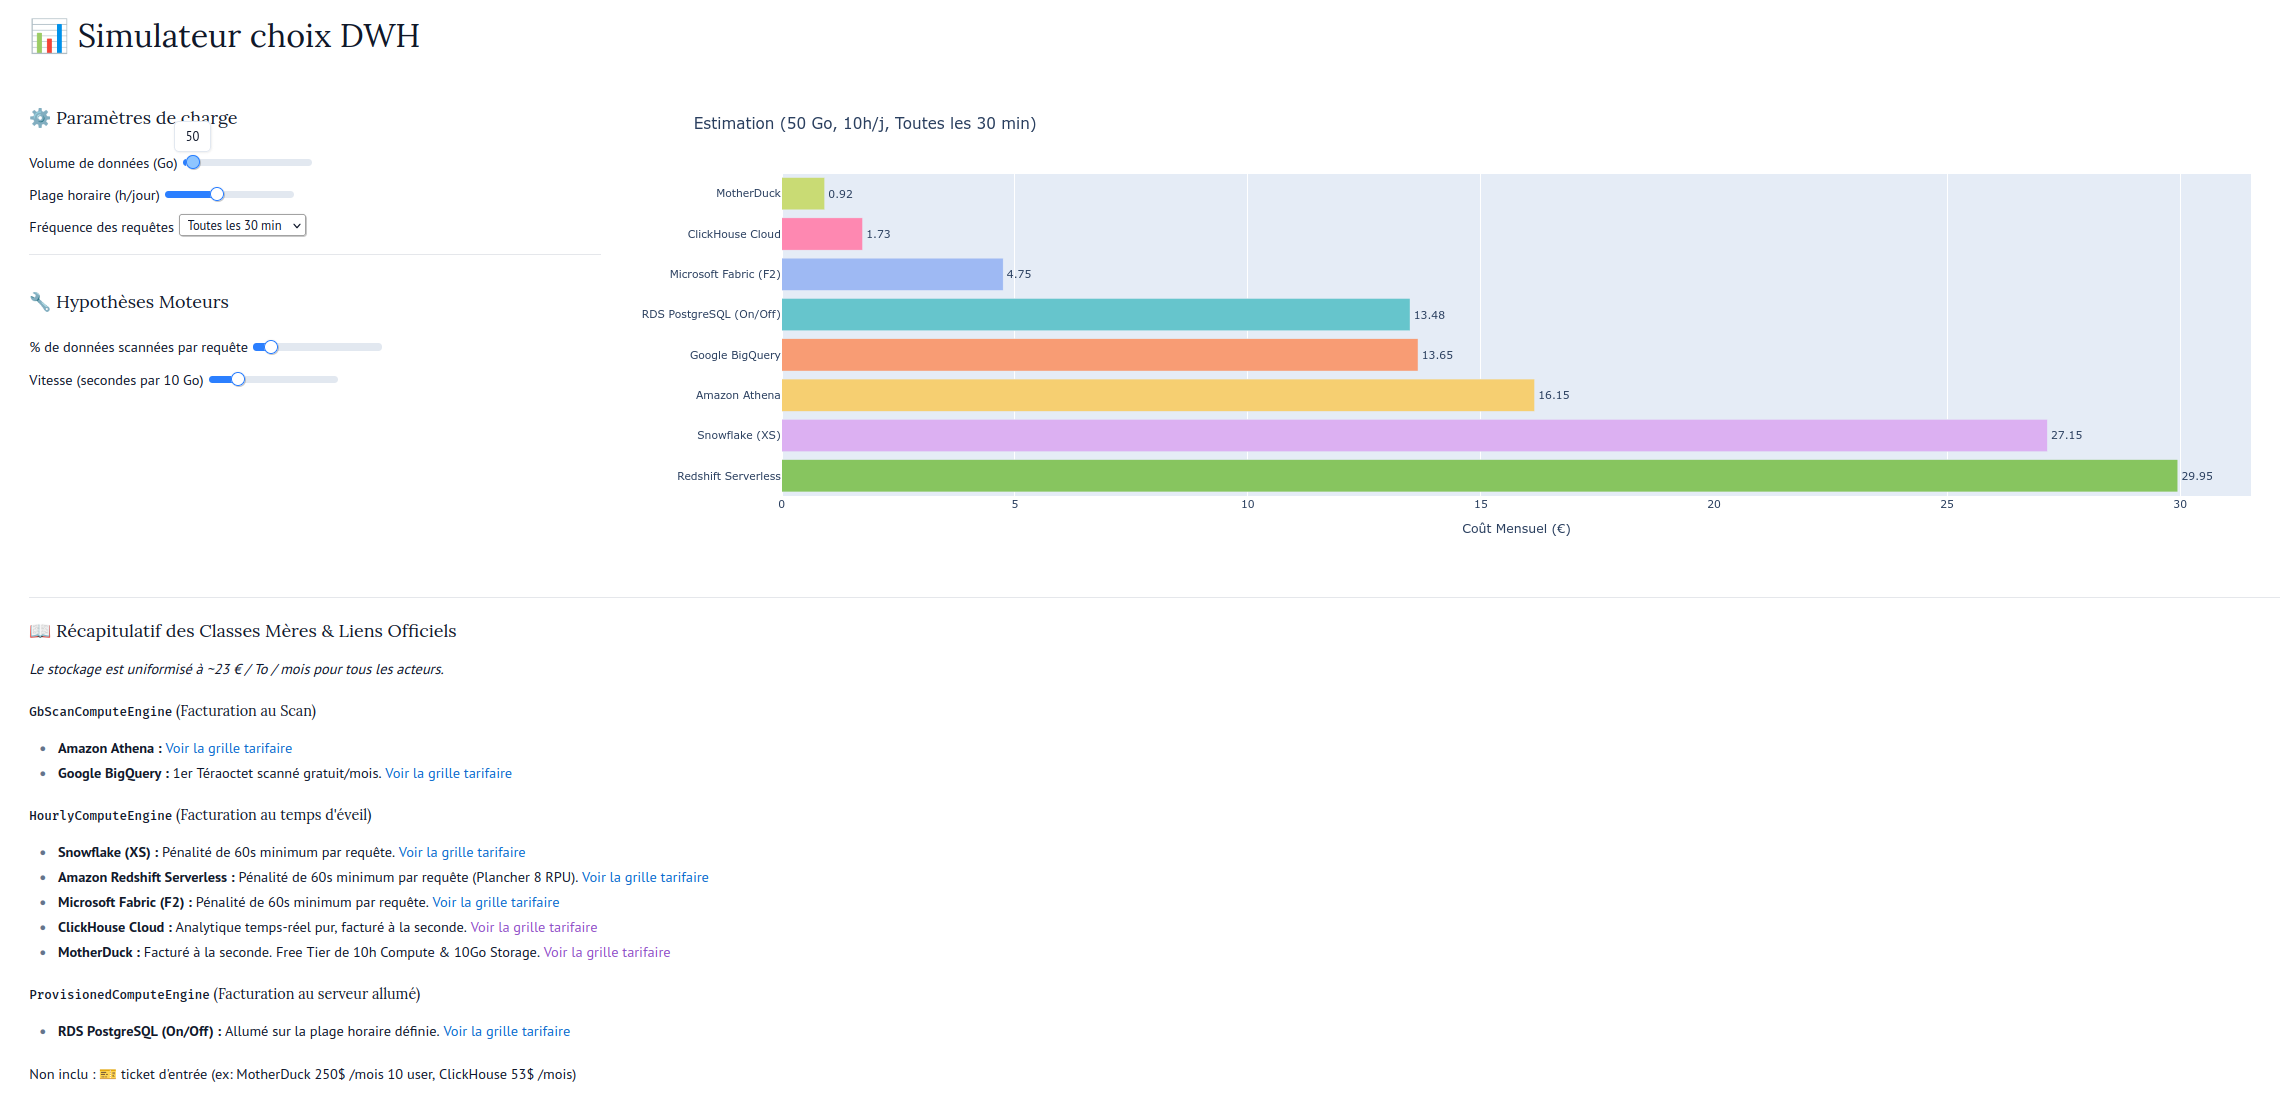
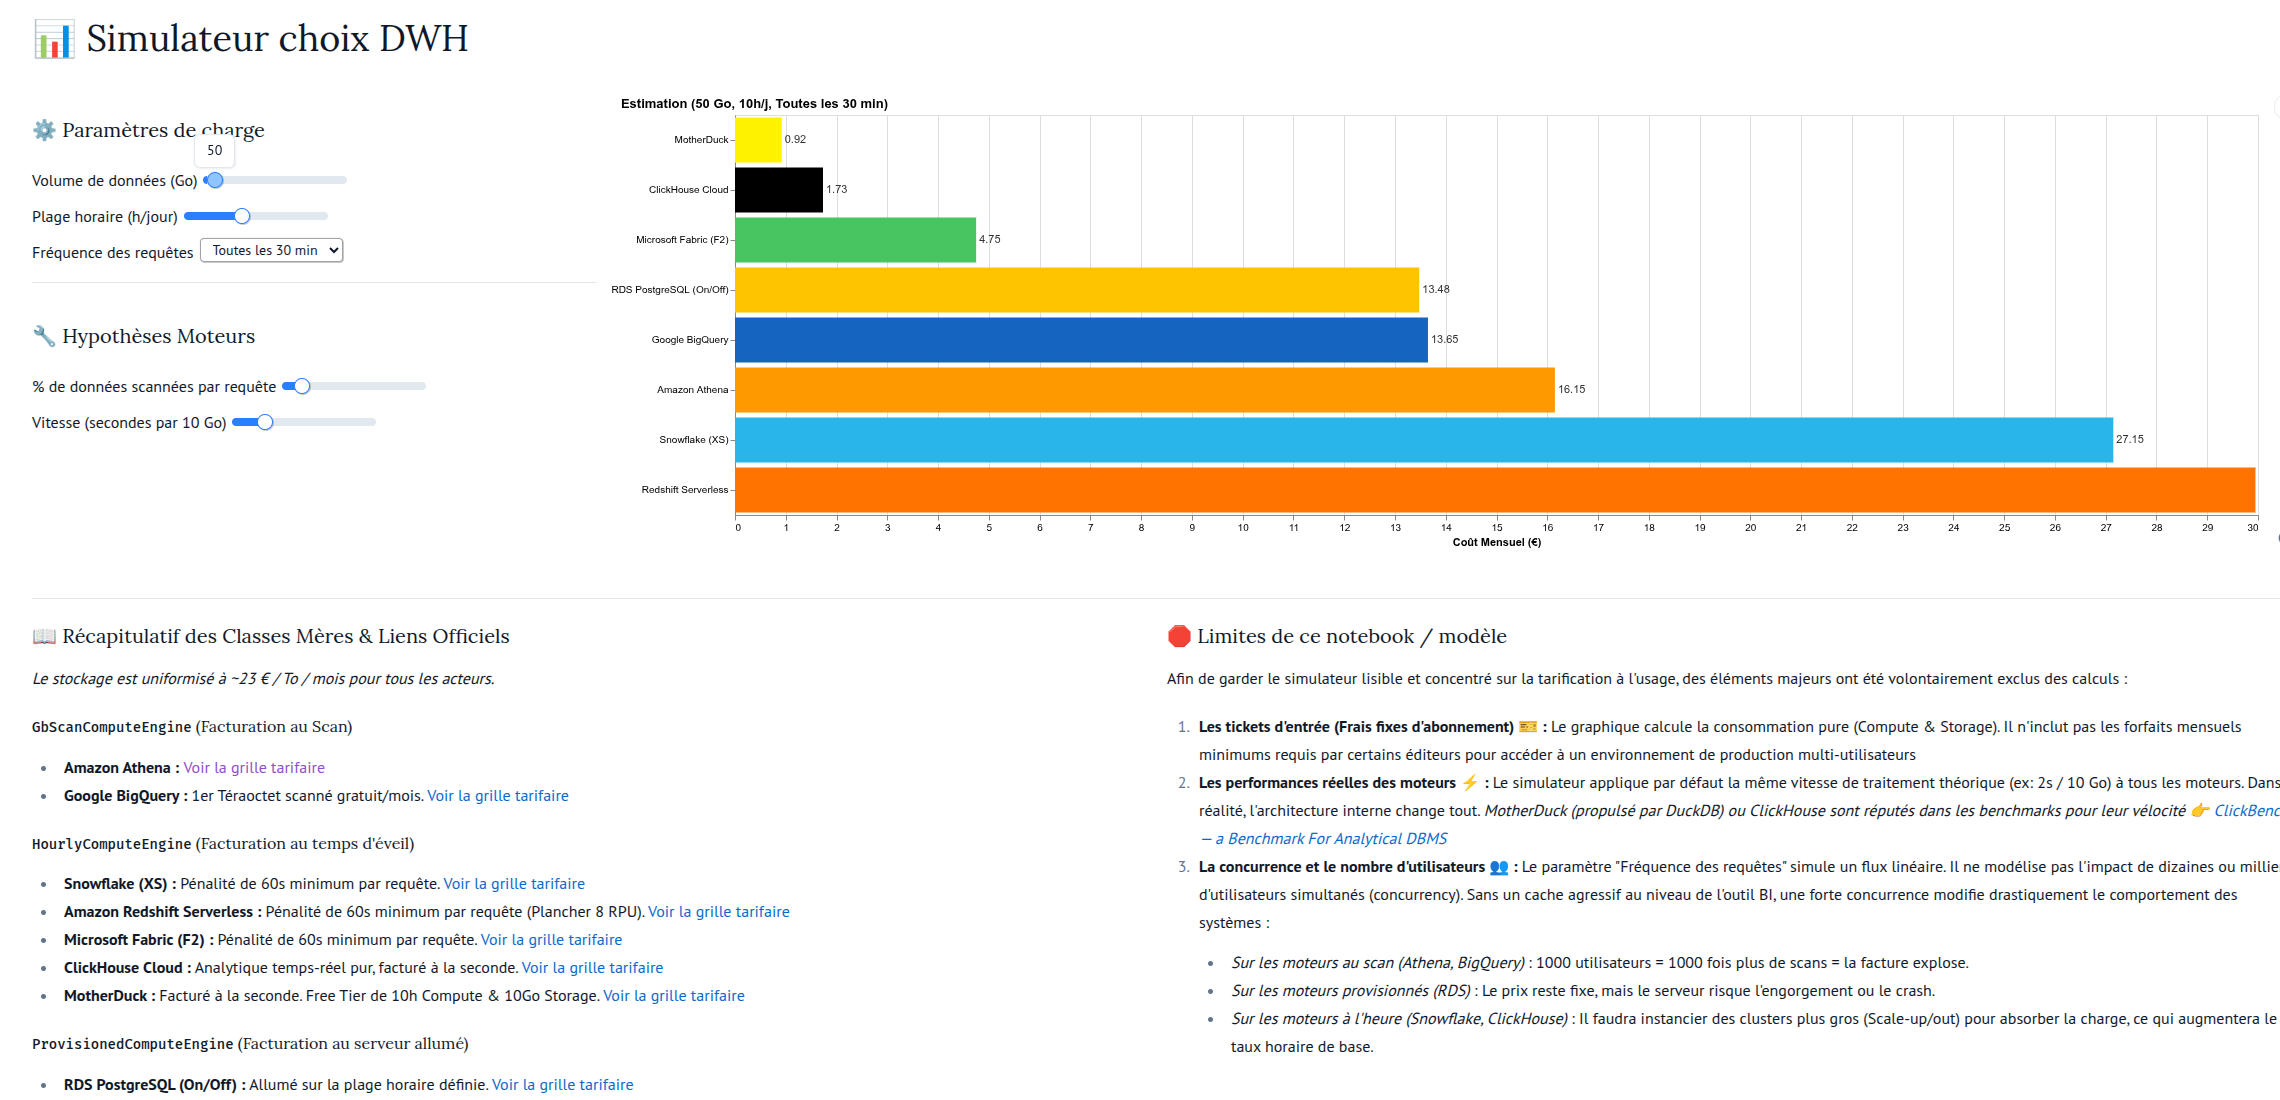
docs: afficher les limitations dans le notebook

diff --git a/simulateur_dwh.py b/simulateur_dwh.py
@@ -10,7 +10,7 @@ def _():
     import marimo as mo
     import pandas as pd
 
-    return alt, mo, pd
+    return alt, mo
 
 
 @app.cell(hide_code=True)
@@ -135,8 +135,6 @@ def _(
     Workload,
     alt,
     frequence,
-    mo,
-    pd,
     plage_horaire,
     scan_pct,
     speed_sec_per_10gb,
@@ -262,19 +260,7 @@ def _(
         width="container",
         height=400,
     )
-
-    return (
-        bars,
-        base,
-        chart,
-        couts,
-        engines,
-        moteurs,
-        scan_ratio,
-        speed_val,
-        text,
-        workload,
-    )
+    return (chart,)
 
 
 @app.cell(hide_code=True)
@@ -286,7 +272,15 @@ def _(mo):
 
 
 @app.cell(hide_code=True)
-def _(chart, frequence, mo, plage_horaire, scan_pct, speed_sec_per_10gb, volume_gb):
+def _(
+    chart,
+    frequence,
+    mo,
+    plage_horaire,
+    scan_pct,
+    speed_sec_per_10gb,
+    volume_gb,
+):
     mo.vstack(
         [
             mo.hstack(
@@ -314,28 +308,51 @@ def _(chart, frequence, mo, plage_horaire, scan_pct, speed_sec_per_10gb, volume_
 
 @app.cell(hide_code=True)
 def _(mo):
-    mo.md(r"""
+    _recap_moteurs = r"""
     ---
     ### 📖 Récapitulatif des Classes Mères & Liens Officiels
 
     *Le stockage est uniformisé à ~23 € / To / mois pour tous les acteurs.*
 
     #### `GbScanComputeEngine` (Facturation au Scan)
-    *   **Amazon Athena :** [Voir la grille tarifaire](https://aws.amazon.com/athena/pricing/)
-    *   **Google BigQuery :** 1er Téraoctet scanné gratuit/mois. [Voir la grille tarifaire](https://cloud.google.com/bigquery/pricing)
+    - **Amazon Athena :** [Voir la grille tarifaire](https://aws.amazon.com/athena/pricing/)
+    - **Google BigQuery :** 1er Téraoctet scanné gratuit/mois. [Voir la grille tarifaire](https://cloud.google.com/bigquery/pricing)
 
     #### `HourlyComputeEngine` (Facturation au temps d'éveil)
-    *   **Snowflake (XS) :** Pénalité de 60s minimum par requête. [Voir la grille tarifaire](https://www.snowflake.com/en/data-cloud/pricing-options/)
-    *   **Amazon Redshift Serverless :** Pénalité de 60s minimum par requête (Plancher 8 RPU). [Voir la grille tarifaire](https://aws.amazon.com/redshift/pricing/)
-    *   **Microsoft Fabric (F2) :** Pénalité de 60s minimum par requête. [Voir la grille tarifaire](https://azure.microsoft.com/en-us/pricing/details/microsoft-fabric/)
-    *   **ClickHouse Cloud :** Analytique temps-réel pur, facturé à la seconde. [Voir la grille tarifaire](https://clickhouse.com/pricing)
-    *   **MotherDuck :** Facturé à la seconde. Free Tier de 10h Compute & 10Go Storage. [Voir la grille tarifaire](https://motherduck.com/pricing/)
+    - **Snowflake (XS) :** Pénalité de 60s minimum par requête. [Voir la grille tarifaire](https://www.snowflake.com/en/data-cloud/pricing-options/)
+    - **Amazon Redshift Serverless :** Pénalité de 60s minimum par requête (Plancher 8 RPU). [Voir la grille tarifaire](https://aws.amazon.com/redshift/pricing/)
+    - **Microsoft Fabric (F2) :** Pénalité de 60s minimum par requête. [Voir la grille tarifaire](https://azure.microsoft.com/en-us/pricing/details/microsoft-fabric/)
+    - **ClickHouse Cloud :** Analytique temps-réel pur, facturé à la seconde. [Voir la grille tarifaire](https://clickhouse.com/pricing)
+    - **MotherDuck :** Facturé à la seconde. Free Tier de 10h Compute & 10Go Storage. [Voir la grille tarifaire](https://motherduck.com/pricing/)
 
     #### `ProvisionedComputeEngine` (Facturation au serveur allumé)
-    *   **RDS PostgreSQL (On/Off) :** Allumé sur la plage horaire définie. [Voir la grille tarifaire](https://aws.amazon.com/rds/postgresql/pricing/)
+    - **RDS PostgreSQL (On/Off) :** Allumé sur la plage horaire définie. [Voir la grille tarifaire](https://aws.amazon.com/rds/postgresql/pricing/)
+    """
 
-    Non inclu : 🎫 ticket d'entrée (ex: MotherDuck 250$ /mois 10 user, ClickHouse 53$ /mois)
-    """)
+    _recap_limitations = r"""
+    ---
+    ### 🛑 Limites de ce notebook / modèle
+
+    Afin de garder le simulateur lisible et concentré sur la tarification à l'usage, des éléments majeurs ont été volontairement exclus des calculs :
+
+    1. **Les tickets d'entrée (Frais fixes d'abonnement) 🎫 :** Le graphique calcule la consommation pure (Compute & Storage). Il n'inclut pas les forfaits mensuels minimums requis par certains éditeurs pour accéder à un environnement de production multi-utilisateurs
+
+    2. **Les performances réelles des moteurs ⚡ :** Le simulateur applique par défaut la même vitesse de traitement théorique (ex: 2s / 10 Go) à tous les moteurs. Dans la réalité, l'architecture interne change tout.    *MotherDuck (propulsé par DuckDB) ou ClickHouse sont réputés dans les benchmarks pour leur vélocité     👉 [ClickBench — a Benchmark For Analytical DBMS](https://benchmark.clickhouse.com/)*
+
+    3. **La concurrence et le nombre d'utilisateurs 👥 :** Le paramètre "Fréquence des requêtes" simule un flux linéaire. Il ne modélise pas l'impact de dizaines ou milliers d'utilisateurs simultanés (concurrency). Sans un cache agressif au niveau de l'outil BI, une forte concurrence modifie drastiquement le comportement des systèmes :
+        - *Sur les **moteurs au scan** (Athena, BigQuery)* : 1000 utilisateurs = 1000 fois plus de scans = la facture explose.
+        - *Sur les **moteurs provisionnés** (RDS)* : Le prix reste fixe, mais le serveur risque l'engorgement ou le crash.
+        - *Sur les **moteurs à l'heure** (Snowflake, ClickHouse)* : Il faudra instancier des clusters plus gros (Scale-up/out) pour absorber la charge, ce qui augmentera le taux horaire de base.
+    """
+
+    # ⚠ CORRECTION : on stocke le layout, on aligne en haut ("start"), et SURTOUT on le retourne !
+    mo.hstack(
+        [mo.md(_recap_moteurs), mo.md(_recap_limitations)],
+        justify="start",
+        align="start",  # Aligne les deux blocs de texte par le haut
+        widths="equal",  # Répartit l'espace 50% / 50%
+        gap="2rem",
+    )
     return
 
 
